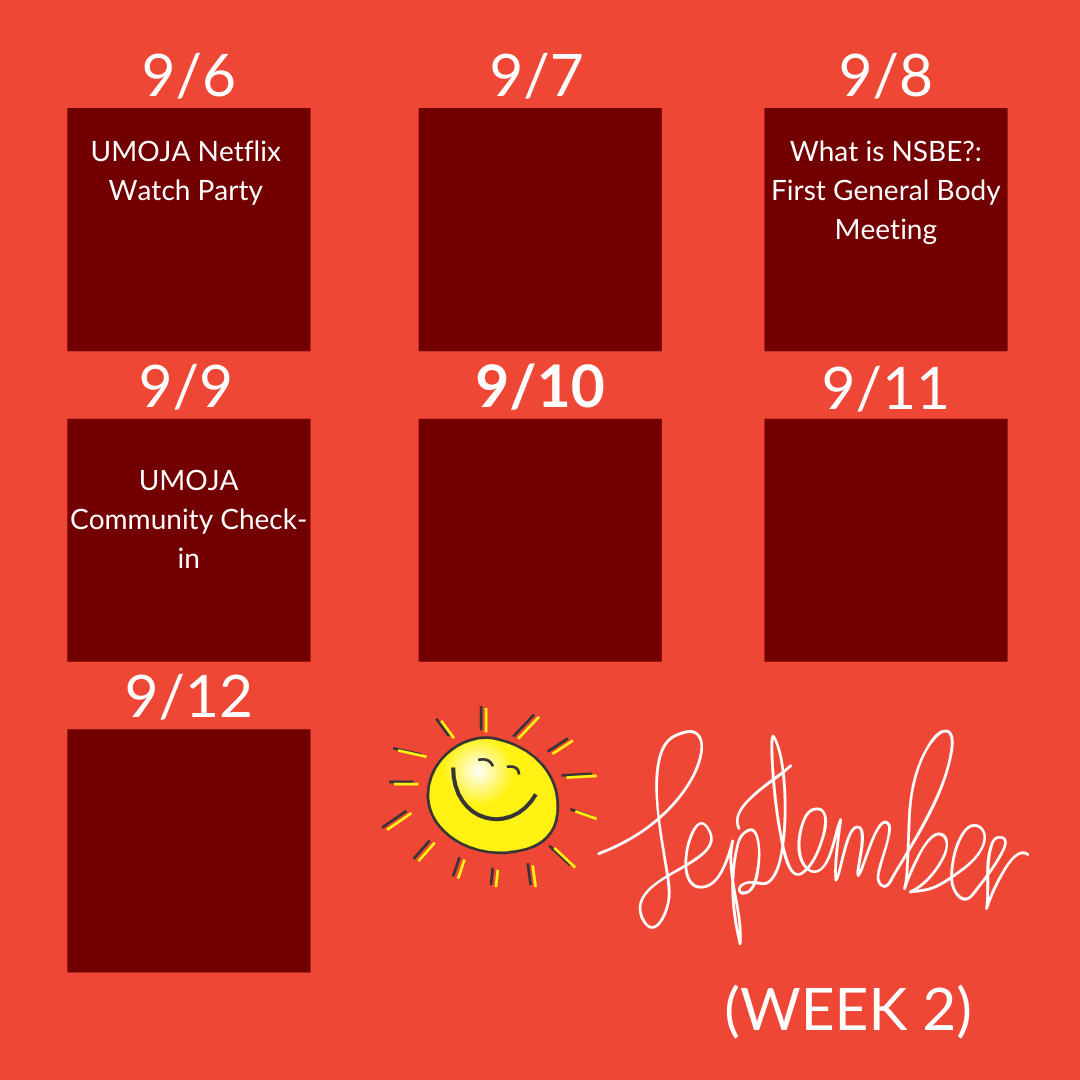
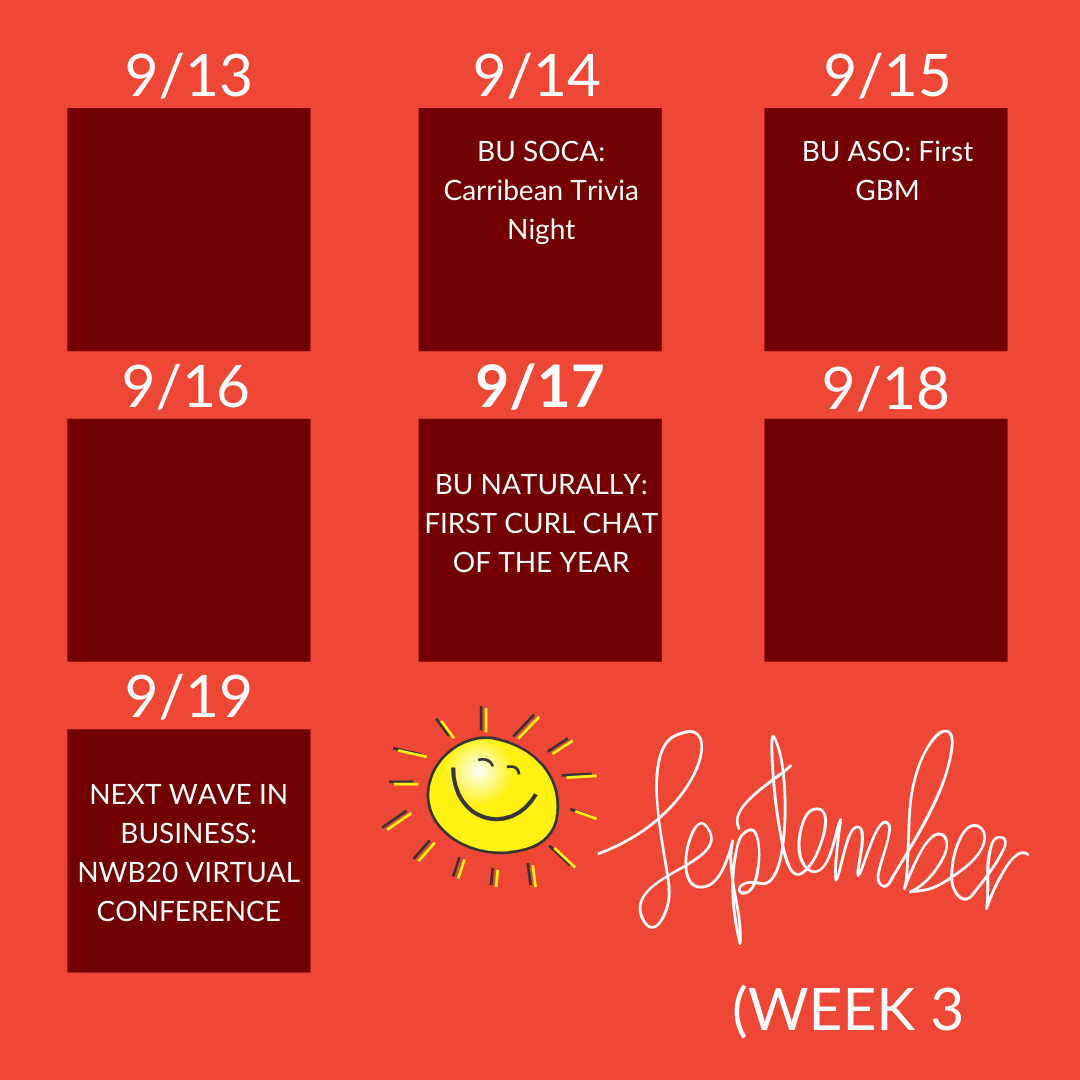
add events

diff --git a/events.html b/events.html
@@ -63,49 +63,9 @@
         <span class="eventTitle">Comming Soon</span>
         <br>
         <br>
-        <!-- <div class="event">
-          <div class="row">
-            <div class="col-sm">
-              <img class="" alt="poster" src="assets/img/flyers/umoja-flyer2.png" data-holder-rendered="true">
-            </div>
-            <div class="col-sm">
-              <span class="eventTitle">Netflix Watch Party</span>
-              <p><b>Date:</b> September 6th<br><span style="padding-left:2.3em">7pm</span></p>
-              <p>The purpose of this program is to establish UMOJA’s consistency in having an event at the last Sunday of every month. Netflix Watch parties allow for a time to relax, support Netflix’s effort to include the Black sitcoms that many
-                grew up with, and celebrate Black culture through film and TV. This event will provide space for the virtual and in-person to all watch shows together and enjoy each other’s reactions. </p>
-              <p><b>Link: </b><a href="https://www.netflix.com/watch/81270189?npSessionId=af345ae224eadbdb&npServerId=s46" target="_blank">https://www.netflix.com/watch/81270189?npSessionId=af345ae224eadbdb&npServerId=s46</a></p>
-            </div>
-          </div>
-        </div>
-        <div class="event">
-          <div class="row">
-            <div class="col-sm">
-              <img class="" alt="poster" src="assets/img/flyers/umoja-flyer1.png" data-holder-rendered="true">
-            </div>
-            <div class="col-sm">
-              <span class="eventTitle">Community Check-In</span>
-              <p><b>Date:</b> September 9th<br><span style="padding-left:2.3em">7pm</span></p>
-              <p>The purpose of this event is to check in and have a recap of everyone's summer.</p>
-              <p><b>Link: </b><a href="https://us02web.zoom.us/j/81077744167?pwd=c2tPOG92NmROU3Z3RjBaNXY1c2l0UT09" target="_blank">https://us02web.zoom.us/j/81077744167?pwd=c2tPOG92NmROU3Z3RjBaNXY1c2l0UT09</a></p>
-            </div>
-          </div> -->
       </section>
       <section id="OtherEvents">
         <h2>Other Events</h2>
-        <!-- <div class="event">
-          <div class="row">
-            <div class="col-sm">
-              <img class="" alt="name" src="assets/img/flyers/other-flyer5.jpg" data-holder-rendered="true">
-            </div>
-            <div class="col-sm">
-              <span class="eventTitle">What is NSBE?</span>
-              <p><b>Date:</b> September 8th<br><span style="padding-left:2.3em">7-9pm</span></p>
-              <p><b>Location:</b> Zoom</p>
-              <p>First general body meeting.</p>
-              <p><b>Link: </b><a href="https://bit.ly/nsbebu" target="_blank">https://bit.ly/nsbebu</a></p>
-            </div>
-          </div>
-        </div> -->
         <div class="event">
           <div class="row">
             <div class="col-sm">
@@ -123,13 +83,53 @@
         <div class="event">
           <div class="row">
             <div class="col-sm">
+              <img class="" alt="poster" src="assets/img/flyers/other-flyer8.png" data-holder-rendered="true">
+            </div>
+            <div class="col-sm">
+              <span class="eventTitle">BU ASO General Body Meeting</span>
+              <p><b>Date:</b> September 15th<br><span style="padding-left:2.3em">6:30 pm</span></p>
+              <p></p>
+              <p>Join us for our first general body meeting of the year!</p>
+              <p><b>Zoom ID: </b>975 7099 1373 <br><span style="padding-left:1.3em"> <b>Pass:</b> BU ASO</span></p>
+            </div>
+          </div>
+        </div>
+        <div class="event">
+          <div class="row">
+            <div class="col-sm">
+              <img class="" alt="poster" src="assets/img/flyers/other-flyer7.jpg" data-holder-rendered="true">
+            </div>
+            <div class="col-sm">
+              <span class="eventTitle">BU Naturally's First Curl Chat</span>
+              <p><b>Date:</b> September 14th<br><span style="padding-left:2.3em">6-8 pm</span></p>
+              <p>Join us for our first curl chat of the year!</p>
+              <p><b>Link: </b><a href="https://zoom.us/j/7147095704?pwd=ZTU3cGE4SUJUZ3BlZ0s0bkhWblJ4UT09" target="_blank">https://zoom.us/j/7147095704?pwd=ZTU3cGE4SUJUZ3BlZ0s0bkhWblJ4UT09</a></p>
+            </div>
+          </div>
+        </div>
+        <div class="event">
+          <div class="row">
+            <div class="col-sm">
               <img class="" alt="poster" src="assets/img/flyers/other-flyer2.jpeg" data-holder-rendered="true">
             </div>
             <div class="col-sm">
               <span class="eventTitle">Elevate Virtual Conference</span>
-              <p><b>Date:</b> Sept 19 - 20</p>
+              <p><b>Date:</b> September 19 - 20</p>
               <p>The NWB20 Virtural Conference, a day of development and networking. Join for insight about what it takes to secure your next internship or full-time opportunity.</p>
               <p><b>Link: </b><a href="https://nextwavebusiness.org/register" target="_blank">nextwavebusiness.org/register</a></p>
+            </div>
+          </div>
+        </div>
+        <div class="event">
+          <div class="row">
+            <div class="col-sm">
+              <img class="" alt="poster" src="assets/img/flyers/other-flyer6.jpg" data-holder-rendered="true">
+            </div>
+            <div class="col-sm">
+              <span class="eventTitle">Black Boston: Changing the Face of Politics</span>
+              <p><b>Date:</b> September 21st<br><span style="padding-left:2.3em">5-6 pm</span></p>
+              <p>In the last 20 years, Massachusetts has elected its first Black governor, first Black congresswoman, and Boston has had its first Black woman City Council President. How much progress have we made? What steps do we need to take to elevate new leaders. ensure equitable representation, and engage and enfranchise new voters?</p>
+              <p><b>Link: </b><a href="https://bu.edu/ioc/blackboston" target="_blank">https://bu.edu/ioc/blackboston</a></p>
             </div>
           </div>
         </div>
@@ -140,12 +140,25 @@
             </div>
             <div class="col-sm">
               <span class="eventTitle">Road To Achievement</span>
-              <p><b>Date:</b> Sept 21 - 26</p>
+              <p><b>Date:</b> September 21 - 26</p>
               <p>Mighty Chi of Chapter Kappa Alpha Psi Fraternity, Inc. presents Black Freshmen Orientation Week. Virtual Edition.</p>
               <p><b>Link: </b><a href="https://chi1924.com" target="_blank">https://chi1924.com</a></p>
             </div>
           </div>
         </div>
+        <!-- <div class="event">
+          <div class="row">
+            <div class="col-sm">
+              <img class="" alt="poster" src="assets/img/flyers/other-flyer5.png" data-holder-rendered="true">
+            </div>
+            <div class="col-sm">
+              <span class="eventTitle">Epsilon Info Session</span>
+              <p><b>Date:</b> September 23rd<br><span style="padding-left:2.3em">6-7 pm</span></p>
+              <p>Please join us virtually to learn more about Epsilon and roles we offer!</p>
+              <p><b>Link: </b><a href="https://zoom.us/J/91580815142" target="_blank">https://zoom.us/J/91580815142</a></p>
+            </div>
+          </div>
+        </div> -->
         <div class="event">
           <div class="row">
             <div class="col-sm">
